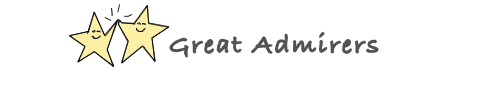
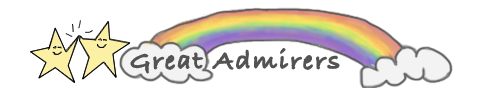
Unknown and Great Admirers

diff --git a/css/main.css b/css/main.css
@@ -1828,7 +1828,7 @@ li.my_1_button a {
 }
 
 li.my_unknown_button a {
-  background:url('/img/Starma-Astrology-Compatibility-Unknown.png') no-repeat center top;
+  background:url('/img/Starma-Astrology-Compatibility-Unknown-Big.png') no-repeat center top;
 }
 /*//////////////// DYNAMIC ICONS ///////////////////////////////////////*/
 
@@ -2646,9 +2646,9 @@ li.my_unknown_button a {
 }
 
 #astrologers_view {
-  background: url('/img/profile/blank_house_chart.png');
-  height:601px;
-  width:601px;
+  background: url('/img/profile/blank_house_chart.png') no-repeat;
+  height: 347px;
+  width: 515px;
   position:relative;
   margin-top: 25px;
 }
